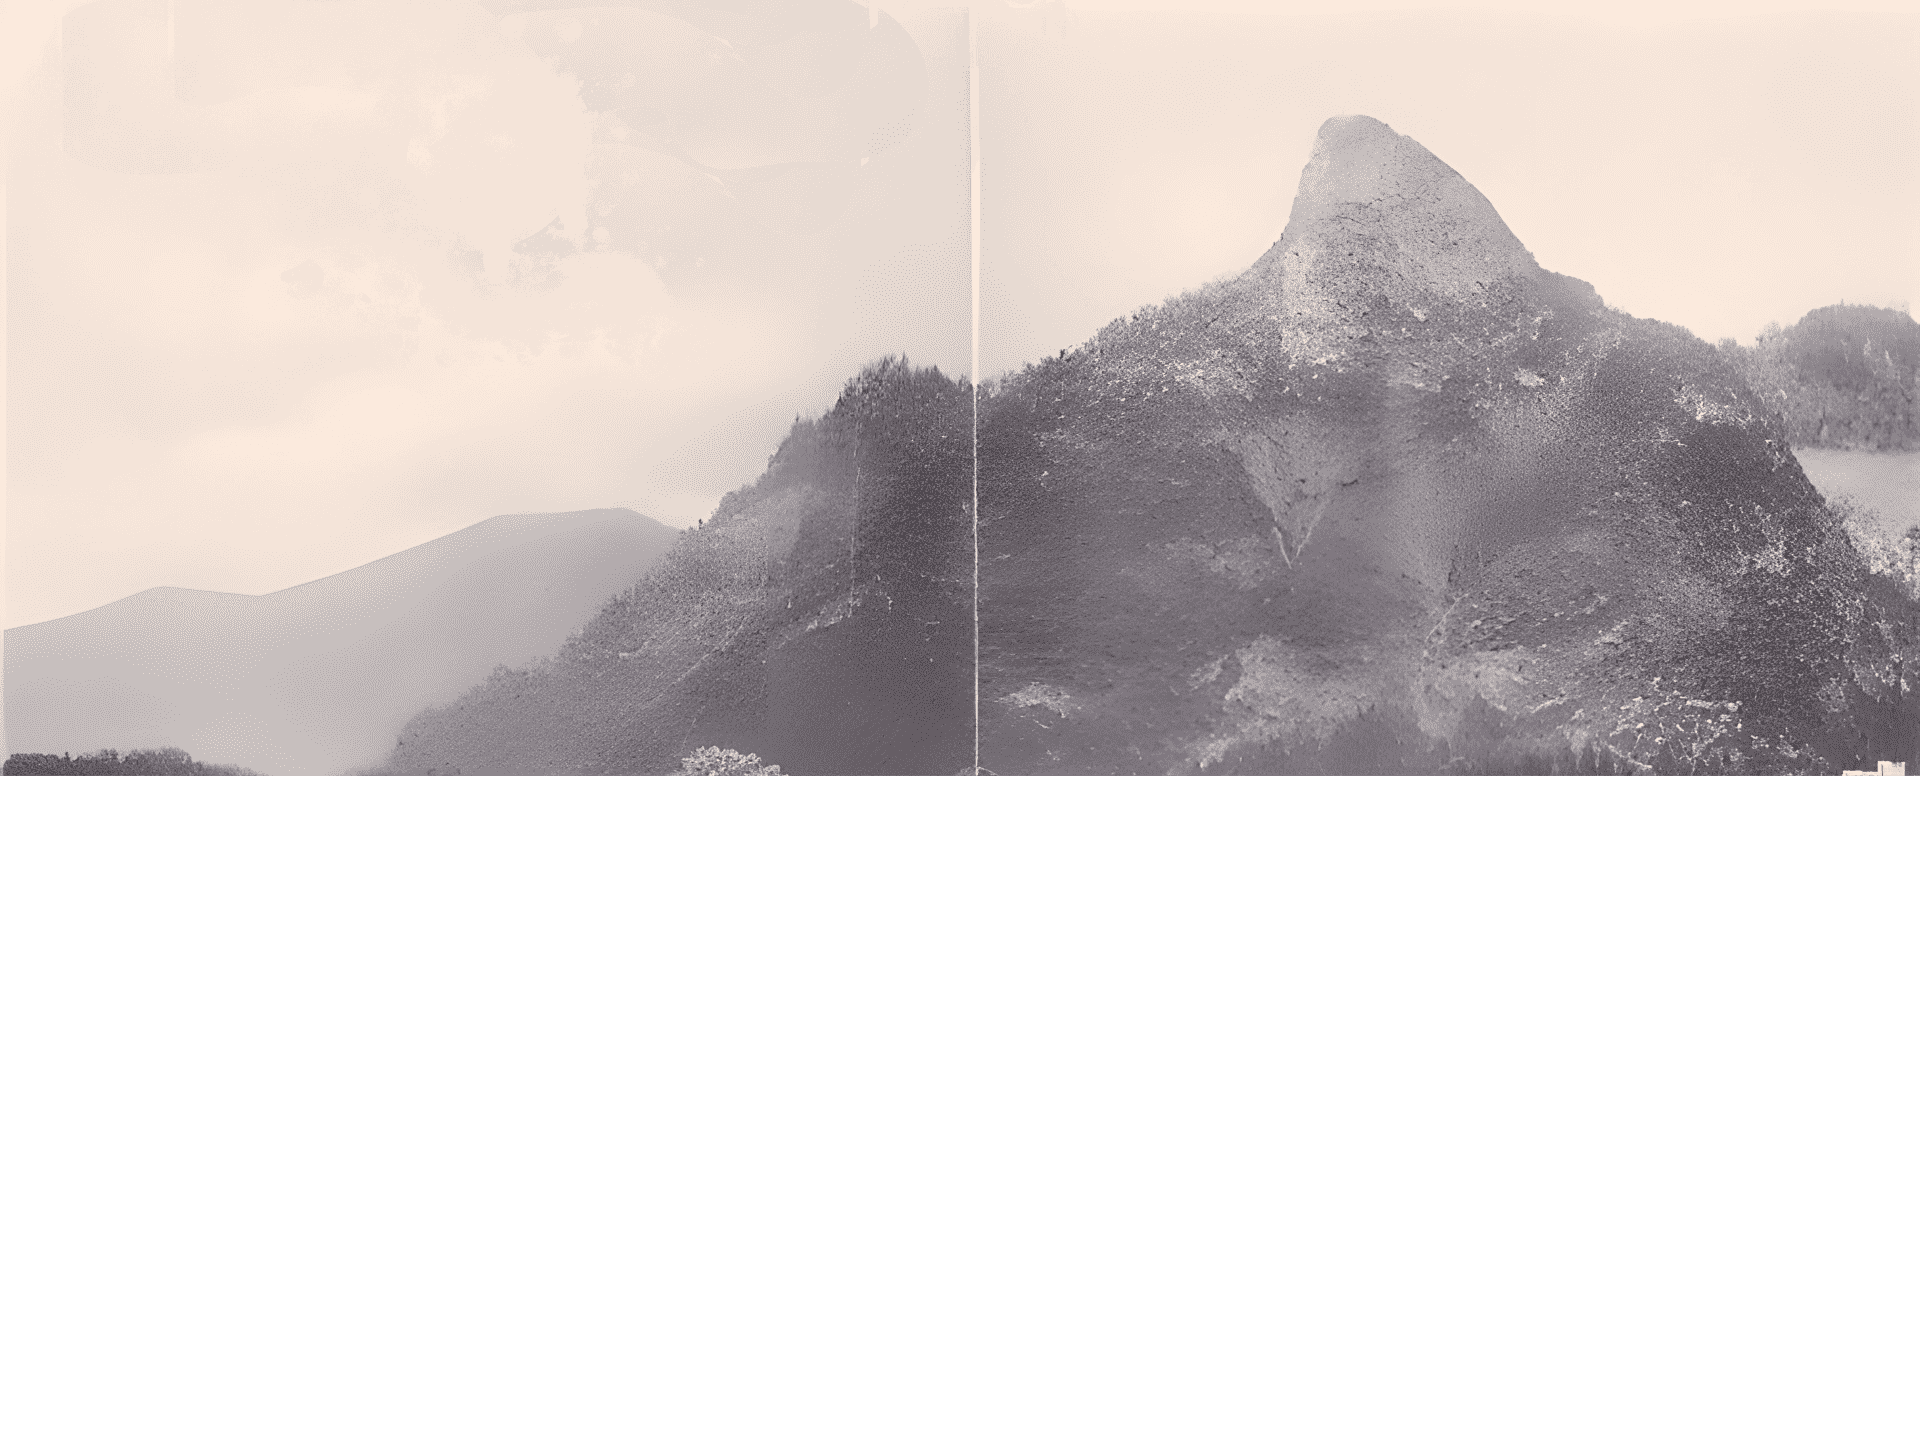
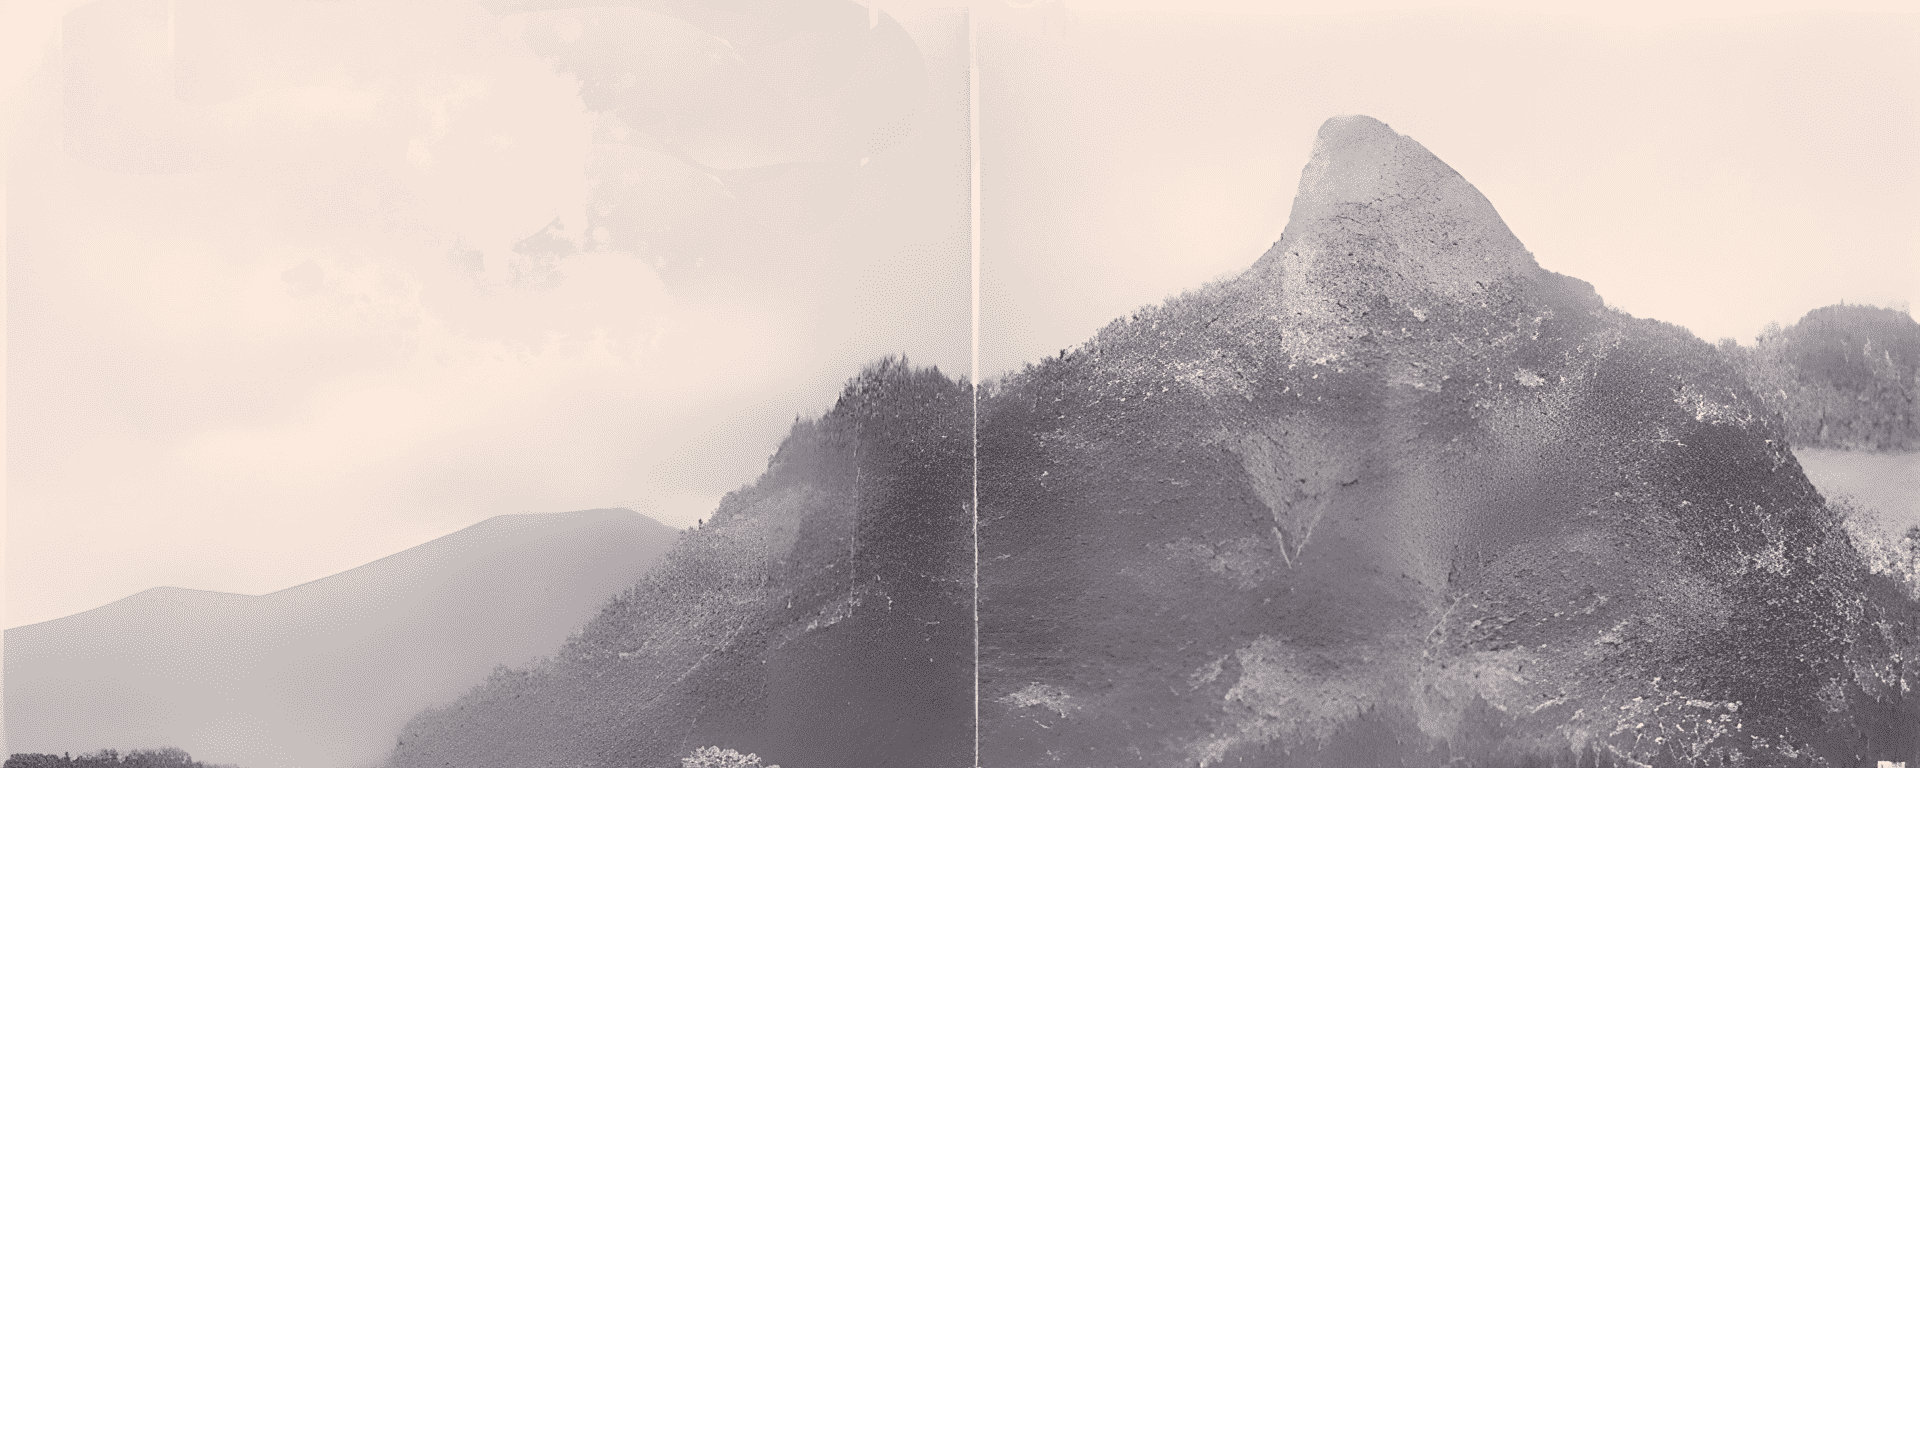
Update

Changed region(s): [[0.0, 0.5265, 1.0, 0.5575]]

diff --git a/themes/wl/templates/index.html b/themes/wl/templates/index.html
@@ -75,11 +75,11 @@
 
 <div id="parallax">
   <!-- <img loading="lazy" src="/images/parallax/l4.png"> -->
-  <img id="para5" class="parrallax-img" src="/images/parallax/q1/l5.png">
-  <img id="para3" class="parrallax-img" loading="lazy" src="/images/parallax/q1/l3.png">
-  <img id="para2" class="parrallax-img" loading="lazy" src="/images/parallax/q1/l2.png" style="margin-top: -10px;"">
+  <img id="para5" class="parrallax-img" src="/images/parallax/q1/l5.png" loading="lazy">
+  <img id="para3" class="parrallax-img" loading="lazy" src="/images/parallax/q1/l3.webp">
+  <img id="para2" class="parrallax-img" loading="lazy" src="/images/parallax/q1/l2.webp" style="margin-top: -10px;"">
   <h1>Historischer Verein <br> Oberammergau</h1>
-  <img id="para1" class="parrallax-img" loading="lazy" src="/images/parallax/q1/l1.png" style="filter: drop-shadow(0px 10px 5px #000000cc); margin-top: -20px;">
+  <img id="para1" class="parrallax-img" loading="lazy" src="/images/parallax/q1/l1.webp" style="filter: drop-shadow(0px 10px 5px #000000cc); margin-top: -20px;">
 </div>
 <button id="scroll-down" class="btn" onclick="scrollDown()"><i class='bx bx-down-arrow-alt'></i></button>
 